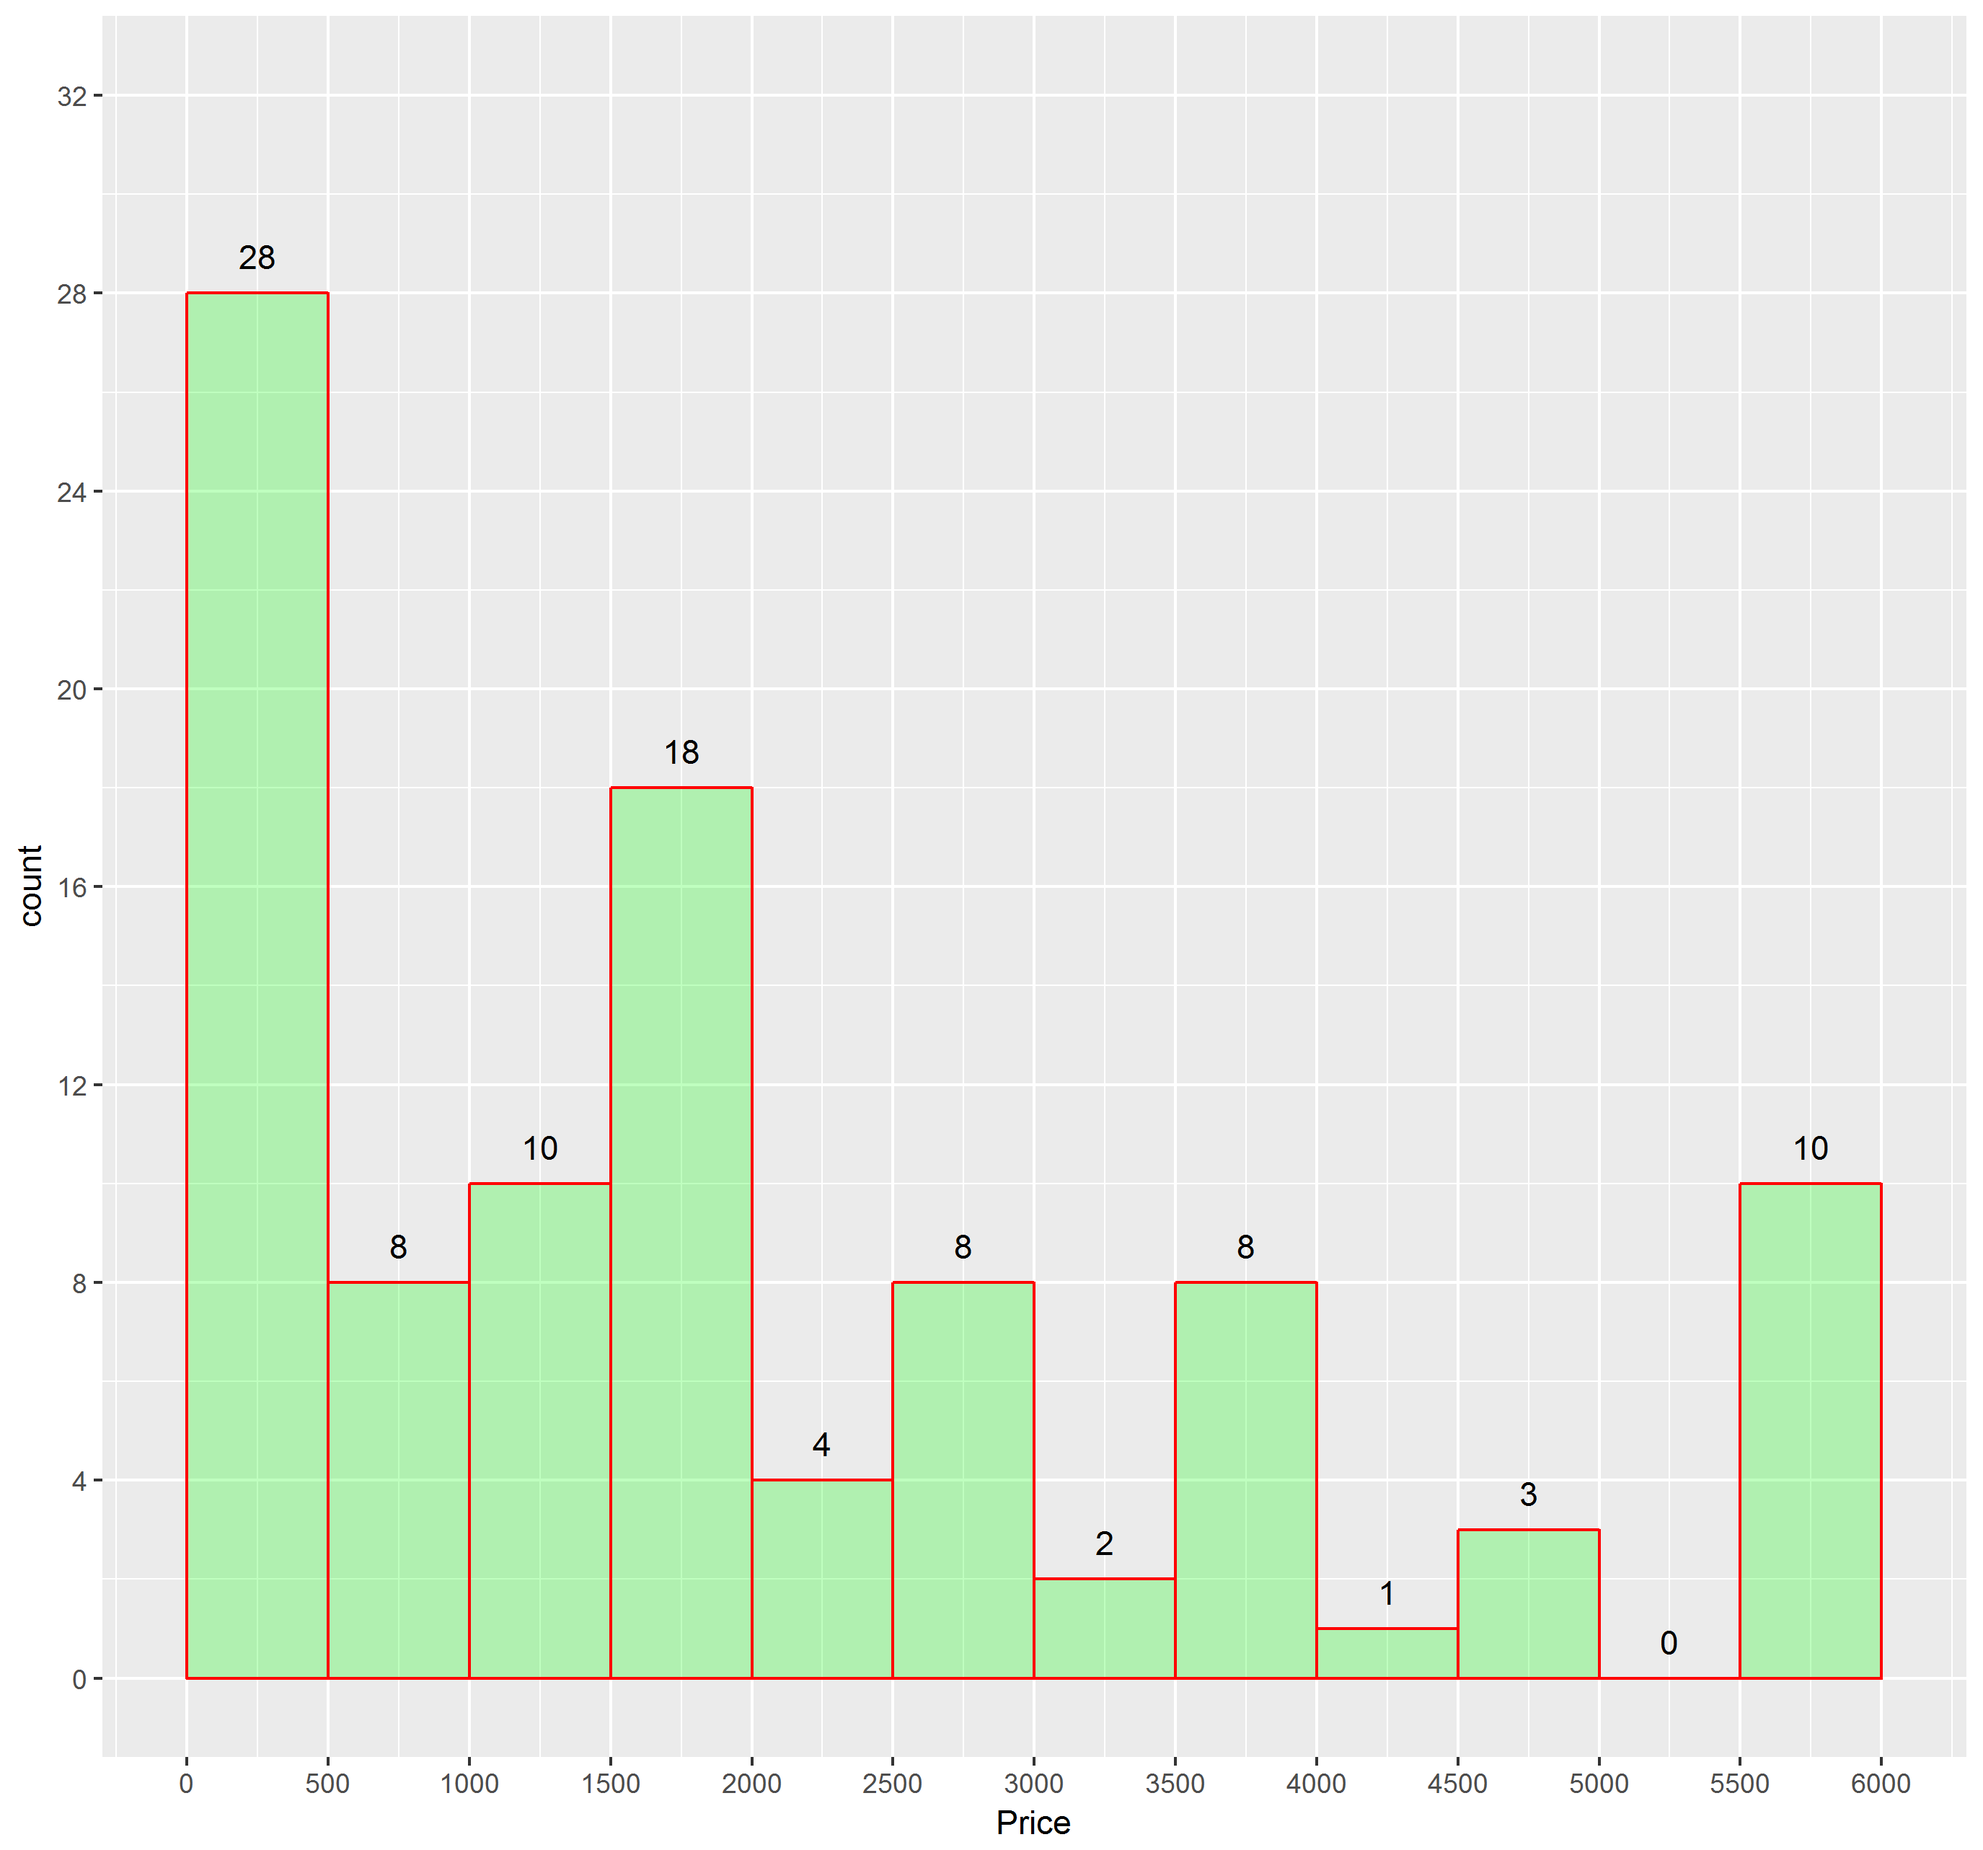
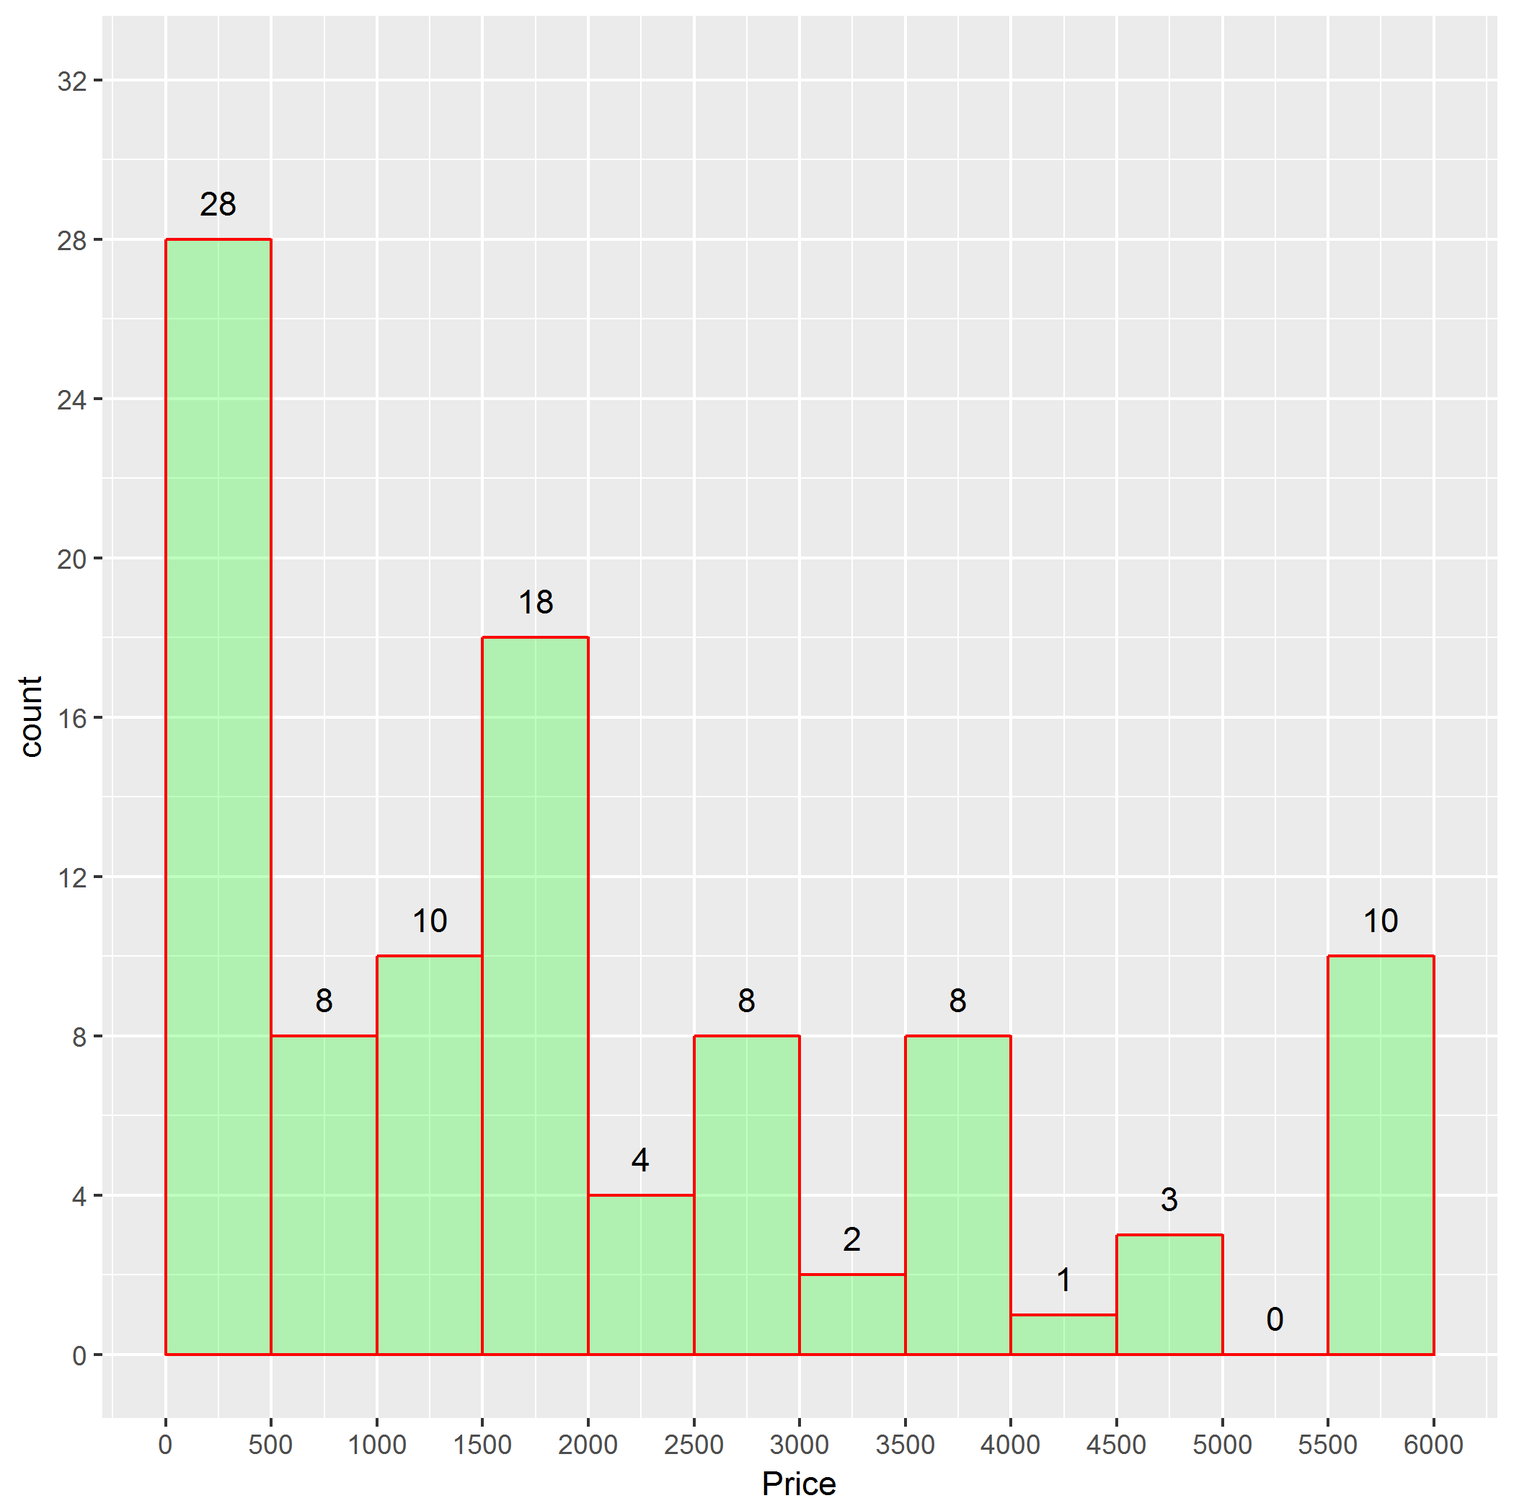
Finally finsihed data visualisation and preparation parts of the report.

diff --git a/doc/report/tex/dataset.tex b/doc/report/tex/dataset.tex
@@ -6,11 +6,12 @@ The dataset being used is data taken from the top 100 most popular games on the
 Steam platform during the fortnight period starting the 6th of February 2017.
 This is determined by the number of users who have played the game during this
 two week period. The data was obtained from the SteamSpy API, containing various
-fields for the 100 games. While \fullref{table:fields} \footnote{All tables provides an overview of the score spread
-and figures can be found in \fullref{sec:figures_tables}} includes all fields provides an overview of the score spread
-returned from the API, Section \fullref{sec:preparation}outlines how only certain provides an overview of the score spread
-fields were used as part of this study, due to many of the fields covering
-similar areas.
+fields for the 100 games. While \fullref{table:fields} \footnote{All tables
+provides an overview of the score spread and figures can be found in
+\fullref{sec:figures_tables}} includes all fields provides an overview of the
+score spread returned from the API, Section \fullref{sec:preparation}outlines
+how only certain provides an overview of the score spread fields were used as
+part of this study, due to many of the fields covering similar areas.
 
 \subsection{Data Fields} % (fold)
 \label{sub:data_fields}
@@ -64,8 +65,8 @@ major AAA title or a recent premium independent title. Of the 28 games under
 games being on the cheaper side of the histogram.
 % subsection price (end)
 
-\subsection{ScoreRank and Price} % (fold)
-\label{sub:scorerank_and_price}
+\subsection{ScoreRank \& Price} % (fold)
+\label{sub:scorerank_price}
 One of the first points of interest was looking for a connection between price
 and score rank. By plotting all games based on their price and score rank, it
 could be determined whether or not there was any correlation.
@@ -81,7 +82,7 @@ show a slight edge for positive receptions).
 
 It is apparent that more than just price will need to considered when estimating
 score rank.
-% subsection scorerank_and_price (end)
+% subsection scorerank_price (end)
 
 \subsection{Publishers} % (fold)
 \label{sub:publishers}
@@ -110,7 +111,7 @@ In order to provide a summary, it was necessary to add additional data about the
 tags. To achieve this, a data frame was created providing each tag with the
 number of games with that tag and the average score of games with that tag.
 A scatter plot was produced between the number of games tagged and the average
-score of these games (see \fullref{fig:tab_score}), which was made to determine
+score of these games (see \fullref{fig:tag_score}), which was made to determine
 if tags could provide a hint as to how a game is scored, and whether or not the
 number of games tagged influences this.
 
@@ -130,7 +131,7 @@ was modified to convert the tag columns from absolute users, to relative users.
 In addition, a cut-off was also included to discard games where the percentage
 of users who used the tag was below a specified amount.
 
-Unfortunately, the figure produced in \fullref{fig:tab_scoe_rel}, shows that
+Unfortunately, the figure produced in \fullref{fig:tag_score_rel}, shows that
 little difference is made, with the scatter plot being very similar to the
 original. The conclusion that must be drawn from this is that tags are not a
 reliable method to predict users.
@@ -138,12 +139,93 @@ reliable method to predict users.
 
 \subsection{Owners \& Players} % (fold)
 \label{sub:owners_players}
+There are three fields used to denote ownership of a game: owners, players
+forever and players 2 weeks. Owners denotes the number of users who have
+ownership of the title, while players forever indicates how many have played the
+game who own it. Players 2 weeks meanwhile, only includes those who played the
+game in the two week period.  Free games result in a more artificial inflation
+of the first two fields due to including players who may have only played the
+game for a very brief session due to it being free. It would be ideal of score
+rank was influenced by recent players more-so than the other fields, since it
+would avoid this particular issue.
 
+\subsubsection{Owners} % (fold)
+\label{ssub:owners}
+The number of owners for a game ranges from \(300\,000\) to \(95\,000\,000\),
+which is a monumental range to deal with. The mean is 57 million users while the
+median is 29 million, which further indicates this vast spread, mainly caused by
+the free games. \fullref{fig:owners} shows that games above 12.5 million owners
+are more likely to be positively reviewed than negative, but below that it is
+not possible to rely on finding a relation between owners and score ranks.
+% subsubsection owners (end)
+
+\subsubsection{Players Forever} % (fold)
+\label{ssub:players_forever}
+Players Forever is very similar to that of owners, and could be expressed as a
+percentage rather than a raw value. As such, it would be natural to assume that
+the summary and visualisation to be similar to that of owners. Inevitably, 
+\fullref{fig:players_f} does indeed show that the relation is the same, meaning
+that there is no real difference between using either of these fields to predict
+score rank.
+% subsubsection players_forever (end)
+
+\subsubsection{Players Two Weeks} % (fold)
+\label{ssub:players_two_weeks}
+Since this field is more focused on recent activity, it is more likely to
+produce different results than players forever did. This field ranges from
+one hundred thousand to 9.5 million users. With a median of 2.4 and average of
+5.3 million. This spread is a scaled down version of the previous two, but still
+exists. However, \fullref{fig:players_t} shows that finding a relation between
+these two values is highly confusing. The attempted smoothing shows such a wide
+area for error that this particular field feels very useless in estimating
+score rank.
+% subsubsection players_two_weeks (end)
 % subsection owners_players (end)
 
 \subsection{Playtime} % (fold)
 \label{sub:playtime}
+Data is collected on how many minutes users have played the game, both since the
+game's release and in a fortnight period as well. Both the average and median of
+these two prices of data are stored for each game. This means that they can be
+used to see what patterns emerge from these figures.
 
+\subsubsection{Average Forever} % (fold)
+\label{ssub:average_forever}
+Average playtime forever shows the average amount of time a user has played
+this game. Of the 100 games in the dataset, the smallest is 134 minutes while
+the highest average is \(21\,480\) minutes. The average of these averages is
+\(3\,260\) minutes while the median is \(3\,885\) minutes.
+
+\fullref{fig:avg_f} shows how this relates to score. Those games which are
+closer to \(3\,000\) minutes played on average appear to get a bump in score,
+while games not played as often or much more often do have slower scores.
+However, the decrease for increased averages is slight, and is mostly caused by
+a single outlier, suggesting that a too high average doesn't really cause a
+decrease in score rank.
+% subsubsection average_forever (end)
+
+\subsubsection{Average 2 Weeks} % (fold)
+\label{ssub:average_2_weeks}
+This data is the same as the previous column, except focused on the past two
+weeks. Over the fortnight period the data snapshots, the games were played for
+between 94 and \(2\,000\) with an average of 563 minutes and median of 503.
+This means that the most popular games on Steam are played for 10 hours by users
+over a two week period.
+
+\fullref{fig:avg_t} shows that generally, as the average increases, the score
+will decrease, although this is again a slight decrease exaggerated by the
+outlier. Again, the margin for error is rather wide, so this does not provide
+extensive data.
+% subsubsection average_2_weeks (end)
+
+\subsubsection{Median Playtime} % (fold)
+\label{ssub:median_playtime}
+The median playtimes shows similar patterns to those of the average playtimes.
+\fullref{fig:med_f} and \fullref{fig:med_t} show how they relate to the score
+rank. It is clear that there is not one of these figures that provides a strong
+estimation of score, and thus would either need to be all included, or all
+ignored.
+% subsubsection median_playtime (end)
 % subsection playtime (end)
 % section dataset (end)
 \end{document}

diff --git a/doc/report/tex/figures_tables.tex b/doc/report/tex/figures_tables.tex
@@ -4,7 +4,7 @@
 \label{sec:figures_tables}
 \begin{table}[H]
     \centering
-    \begin{tabularx}{\textwidth}{|l|X|}
+    \begin{tabularx}{\textwidth=0.5}{|l|X|}
         \hline
         Field & Description \\
         \hline
@@ -49,40 +49,94 @@
     \label{table:fields}
 \end{table}
 
-
 \begin{figure}[H]
     \centering
-    \includegraphics[width=\textwidth]{img/score_rank.png}
+    \includegraphics[scale=0.5]{img/score_rank.png}
     \caption{Histogram of the score rank}
     \label{fig:score_rank}
 \end{figure}
 
 \begin{figure}[H]
     \centering
-    \includegraphics[width=\textwidth]{img/price.png}
+    \includegraphics[scale=0.5]{img/price.png}
     \caption{Histogram of the game prices}
     \label{fig:price}
 \end{figure}
 
 \begin{figure}[H]
     \centering
-    \includegraphics[width=\textwidth]{img/score_price.png}
+    \includegraphics[scale=0.5]{img/score_price.png}
     \caption{Plotting of price and score rank}
     \label{fig:score_price}
 \end{figure}
 
 \begin{figure}[H]
     \centering
-    \includegraphics[width=\textwidth]{img/tag_score.png}
+    \includegraphics[scale=0.5]{img/publishers.png}
+    \caption{Histogram showing relation between publishers and score ranks}
+    \label{fig:publishers}
+\end{figure}
+
+\begin{figure}[H]
+    \centering
+    \includegraphics[scale=0.5]{img/tag_score.png}
     \caption{Plotting of tags to scores}
     \label{fig:tag_score}
 \end{figure}
 
 \begin{figure}[H]
     \centering
-    \includegraphics[width=\textwidth]{img/tag_score_rel.png}
+    \includegraphics[scale=0.5]{img/tag_score_rel.png}
     \caption{Plotting of relative tags to scores}
     \label{fig:tag_score_rel}
 \end{figure}
+
+\begin{figure}[H]
+    \centering
+    \includegraphics[scale=0.5]{img/owners.png}
+    \caption{The relation between score rank and owners}
+    \label{fig:owners}
+\end{figure}
+\begin{figure}[H]
+    \centering
+    \includegraphics[scale=0.5]{img/players_f.png}
+    \caption{The relation between score rank and all players}
+    \label{fig:players_f}
+\end{figure}
+\begin{figure}[H]
+    \centering
+    \includegraphics[scale=0.5]{img/players_t.png}
+    \caption{The relation between score rank and recent players}
+    \label{fig:players_t}
+\end{figure}
+
+\begin{figure}[H]
+    \centering
+    \includegraphics[scale=0.5]{img/avg_f.png}
+    \caption{Plotting of average playtime and ScoreRank}
+    \label{fig:avg_f}
+\end{figure}
+
+\begin{figure}[H]
+    \centering
+    \includegraphics[scale=0.5]{img/avg_t.png}
+    \caption{Plotting of average recent playtime and ScoreRank}
+    \label{fig:avg_t}
+\end{figure}
+
+\begin{figure}[H]
+    \centering
+    \includegraphics[scale=0.5]{img/med_f.png}
+    \caption{Plotting of median playtime and ScoreRank}
+    \label{fig:med_f}
+\end{figure}
+
+\begin{figure}[H]
+    \centering
+    \includegraphics[scale=0.5]{img/med_t.png}
+    \caption{Plotting of median recent playtime and ScoreRank}
+    \label{fig:med_t}
+\end{figure}
+
 % section figures_tables (end)
 \end{document}

diff --git a/doc/report/tex/preparation.tex b/doc/report/tex/preparation.tex
@@ -9,7 +9,7 @@ The AppID and Name fields were irrelevant, simply being IDs rather than actual
 data. Therefore, it was ideal that they be removed from the dataset during the
 modelling process.
 
-\subsection{Categorising Score and Price} % (fold)
+\subsection{Categorising Score \& Price} % (fold)
 \label{sub:categorising_score_price}
 The goal of the project is to create a model for estimating the ScoreRank
 field. Thus, it maybe better to try and predict the score as a range, rather
@@ -24,5 +24,17 @@ inflate in size to the number of free-to-play games in the dataset. It may be
 ideal for this to be its own price band, rather than being merged with the paid
 games less than \$5.
 % subsection categorising_score_price (end)
+
+\subsection{Owners, Players, Playtime} % (fold)
+\label{sub:owners_players_playtime}
+For owners and players, a continuous field does not seem appropriate for the
+task at hand. It is unlikely that a difference of 500 owners will make an
+impact on any resulting model. As such, an additional field will be created by
+turning the continuous values into ranges. These three fields will be cut into
+groups at intervals of every half million. It is likely that a more appropriate
+figure may be found during the modelling process. Playtime will be converted
+from minutes into hours using similar methods. Half an hour periods may be used
+if it is found to be more appropriate.
+% subsection owners_players_playtime (end)
 % section preparation (end)
 \end{document}
